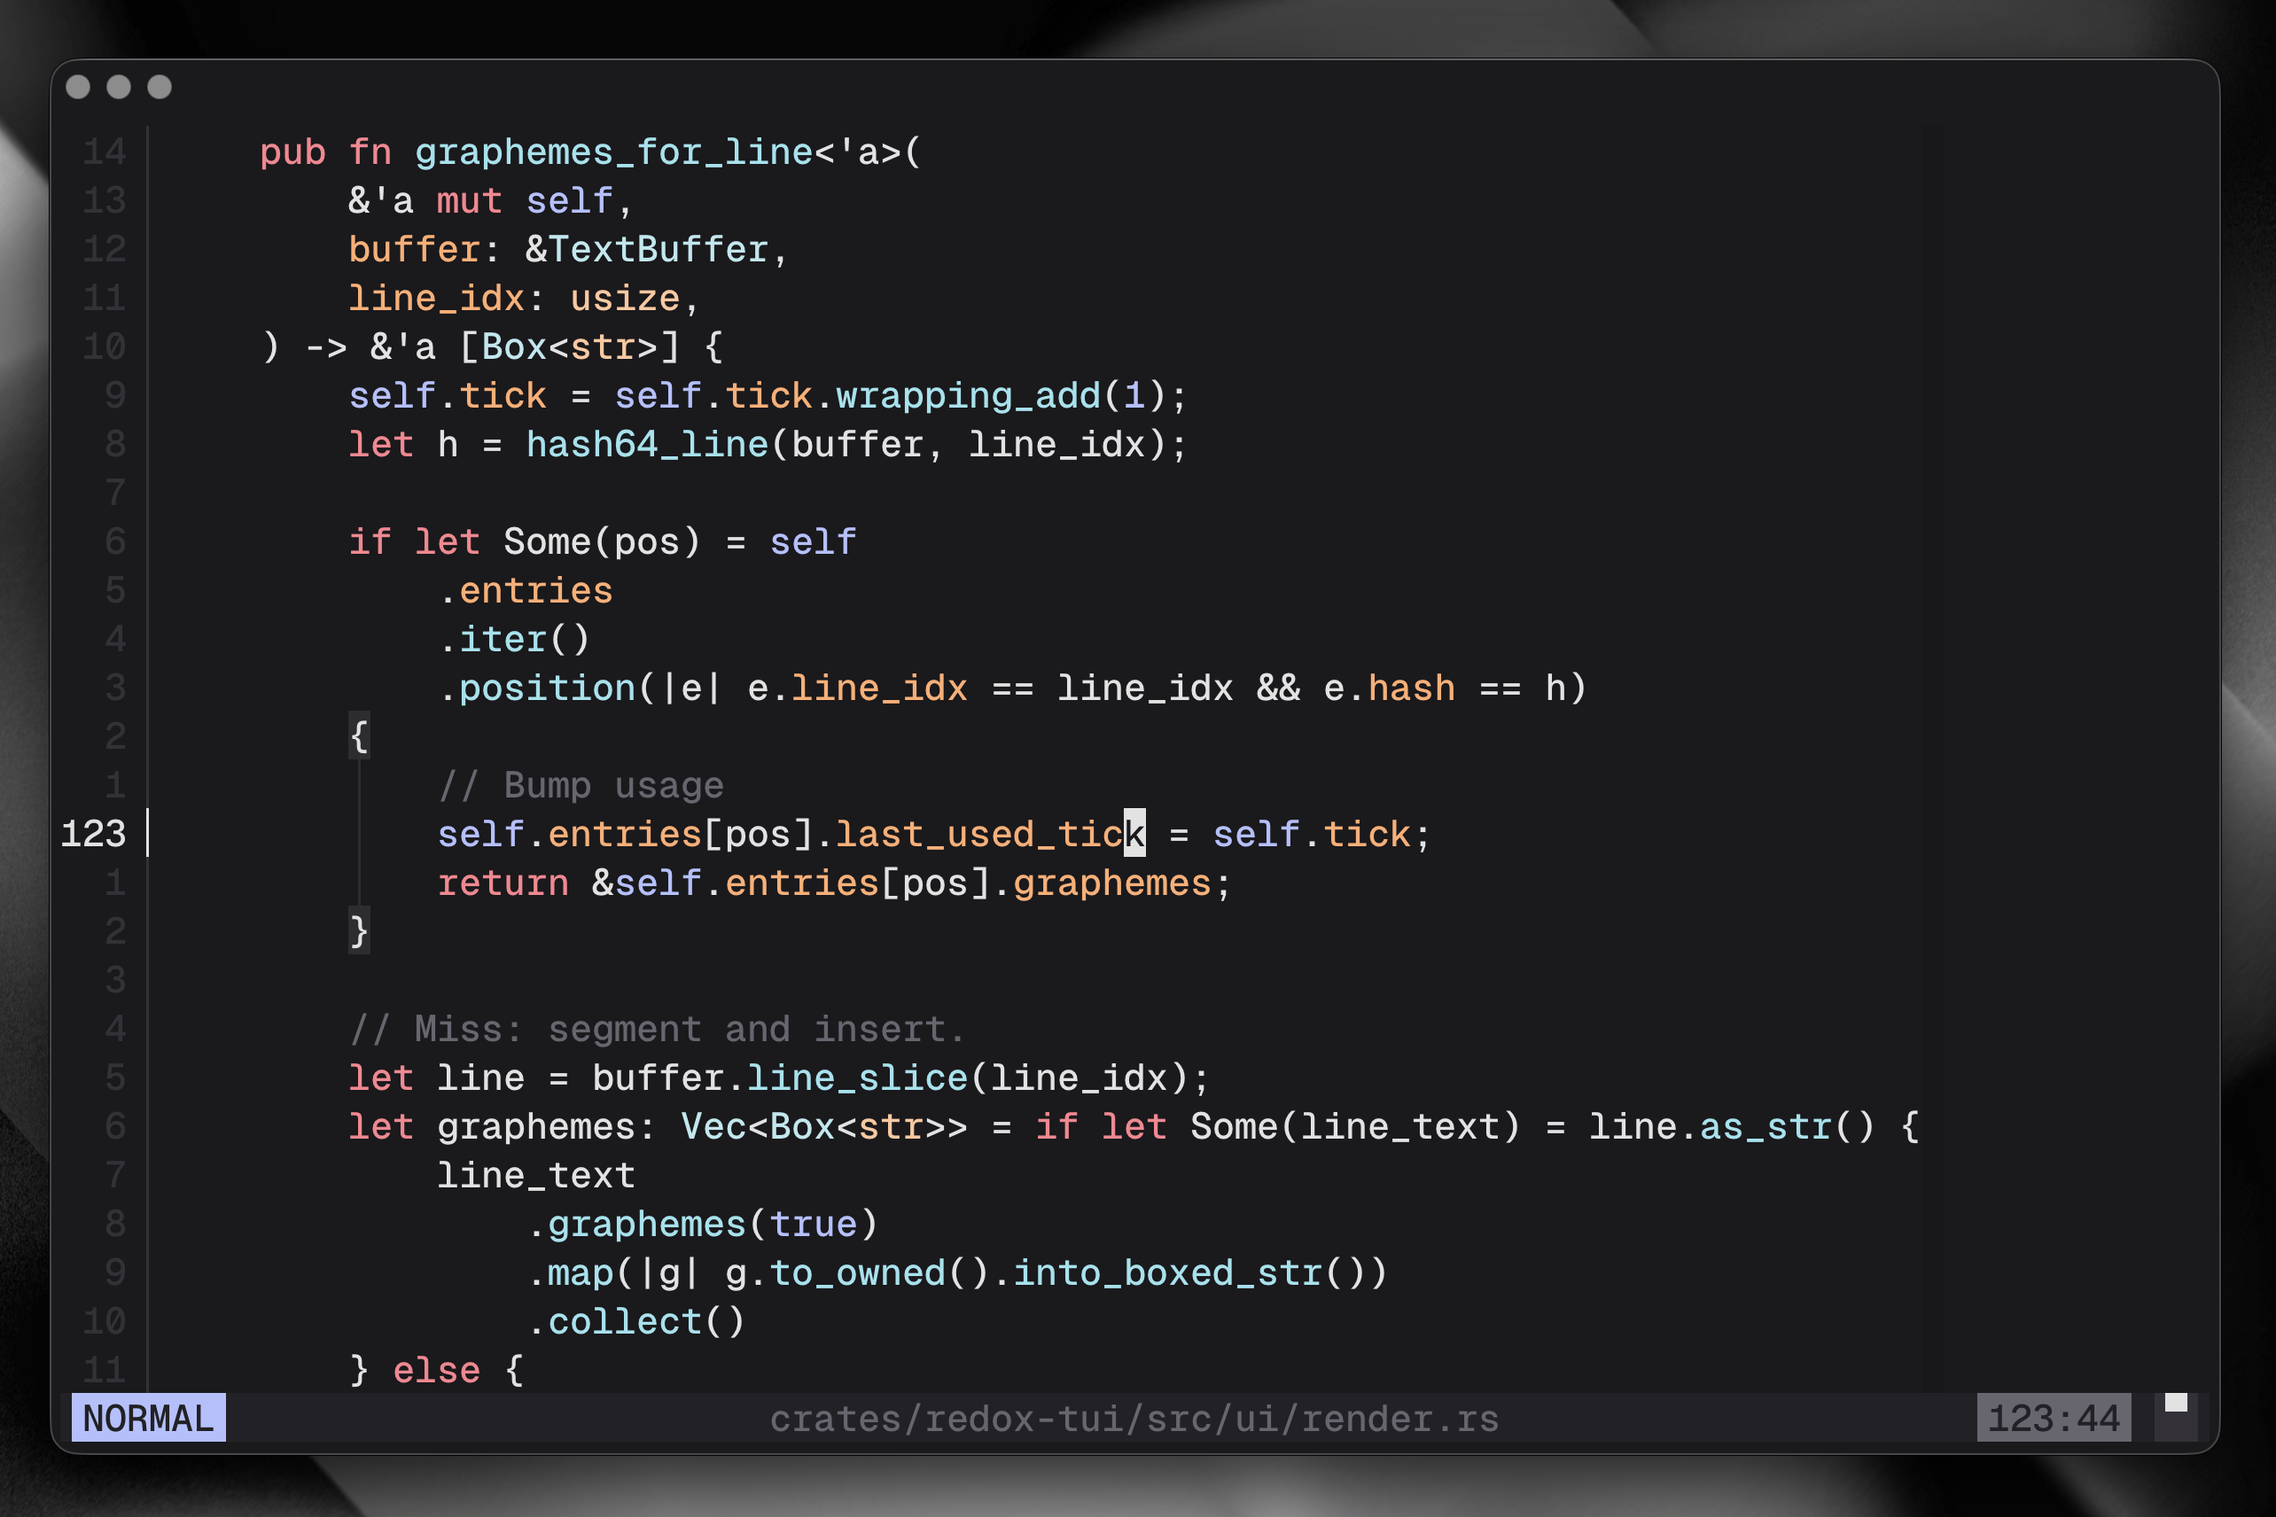
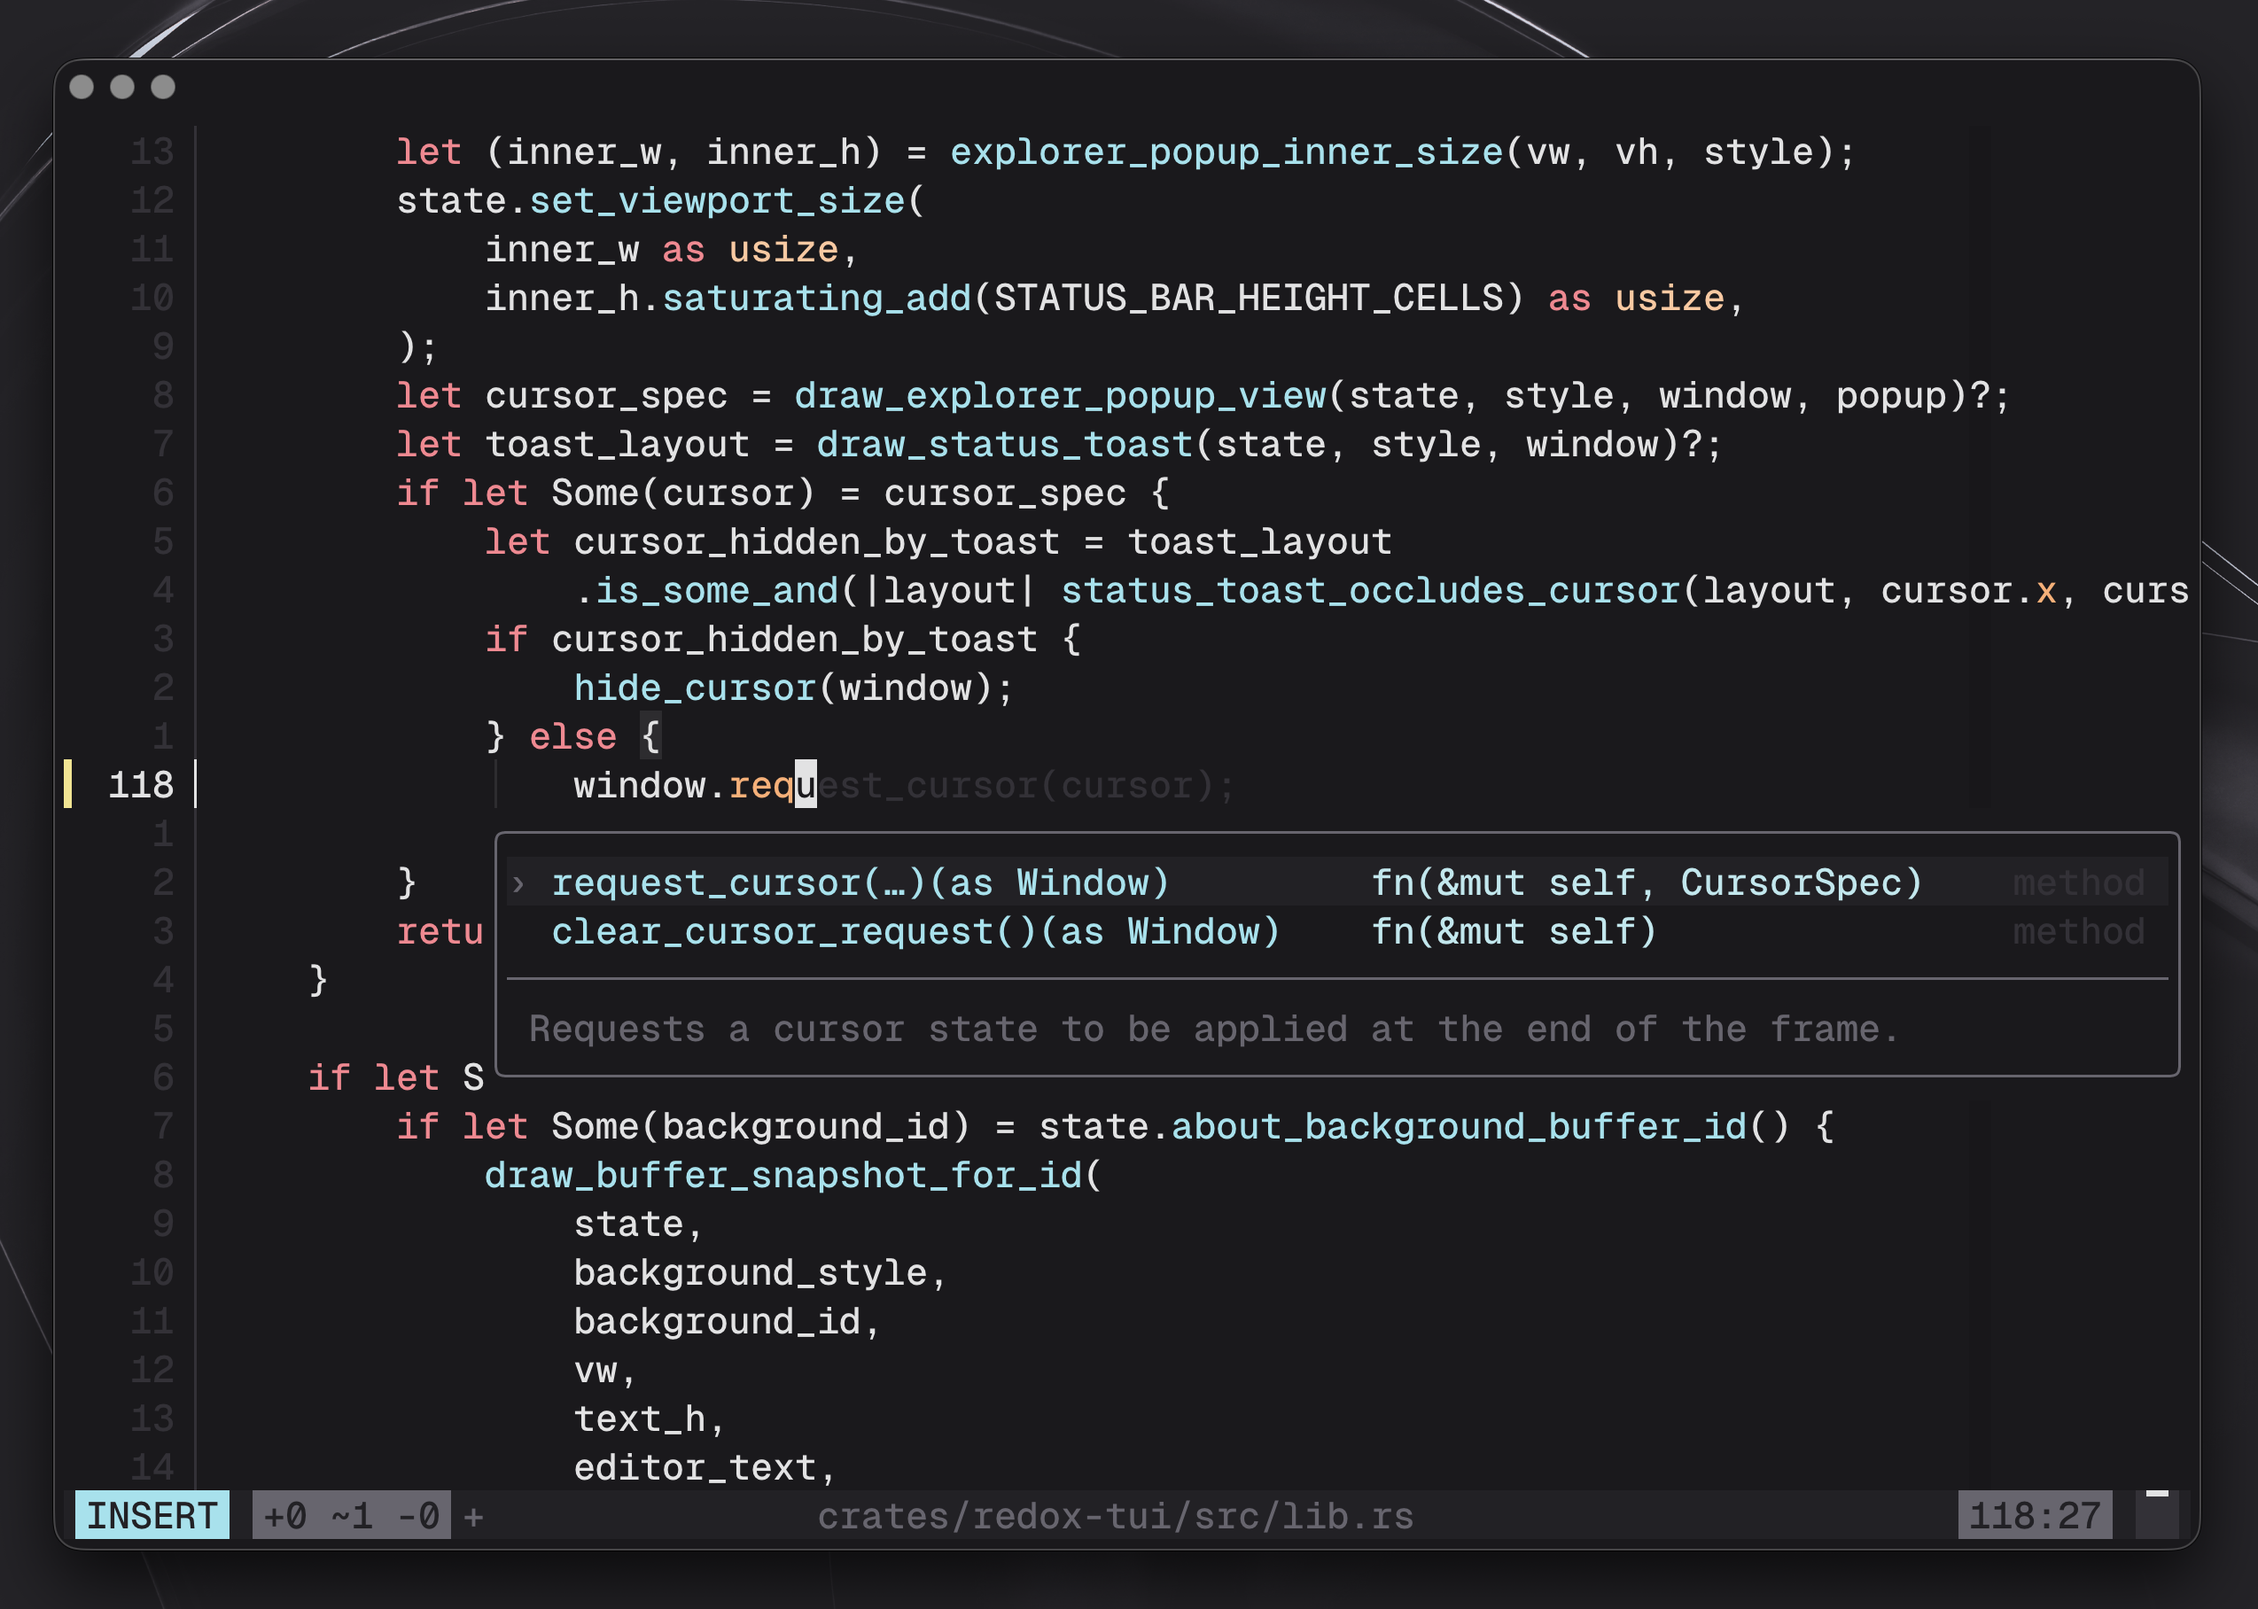
Update readme

diff --git a/README.md b/README.md
@@ -14,7 +14,7 @@
 </p>
 
 <p align="center">
-    <img width="1541" height="1027" alt="Redox Demo" src="assets/redox-demo.png" />
+    <img width="1529" height="1090" alt="Redox Demo" src="assets/redox-demo.png" />
 </p>
 
 ## Project structure
@@ -330,11 +330,11 @@ These have roughly been categorized, and so aren't necessarily in chronological 
 - [x] Performance popup for frame timing
 - [x] Toast/status popups for longer messages
 - [x] LSP diagnostics, go-to-definition, completion, snippets, and language tool management
-- [ ] Undo tree UI with stored history
-- [ ] LSP symbol renaming
-- [ ] LSP document formatting
+- [ ] LSP symbol renaming (project-wide)
+- [x] LSP document formatting
 - [x] LSP code actions and quick fixes
-- [ ] Basic git integration (diff stats)
+- [x] Basic git integration (diff stats)
+- [ ] Undo tree UI with stored history
 - [ ] Grep-based finder for searching text patterns across files
 - [ ] More extendable leader key system with "whichkey" functionality
 - [ ] A dashboard screen with similar functionality to nvim dashboards
